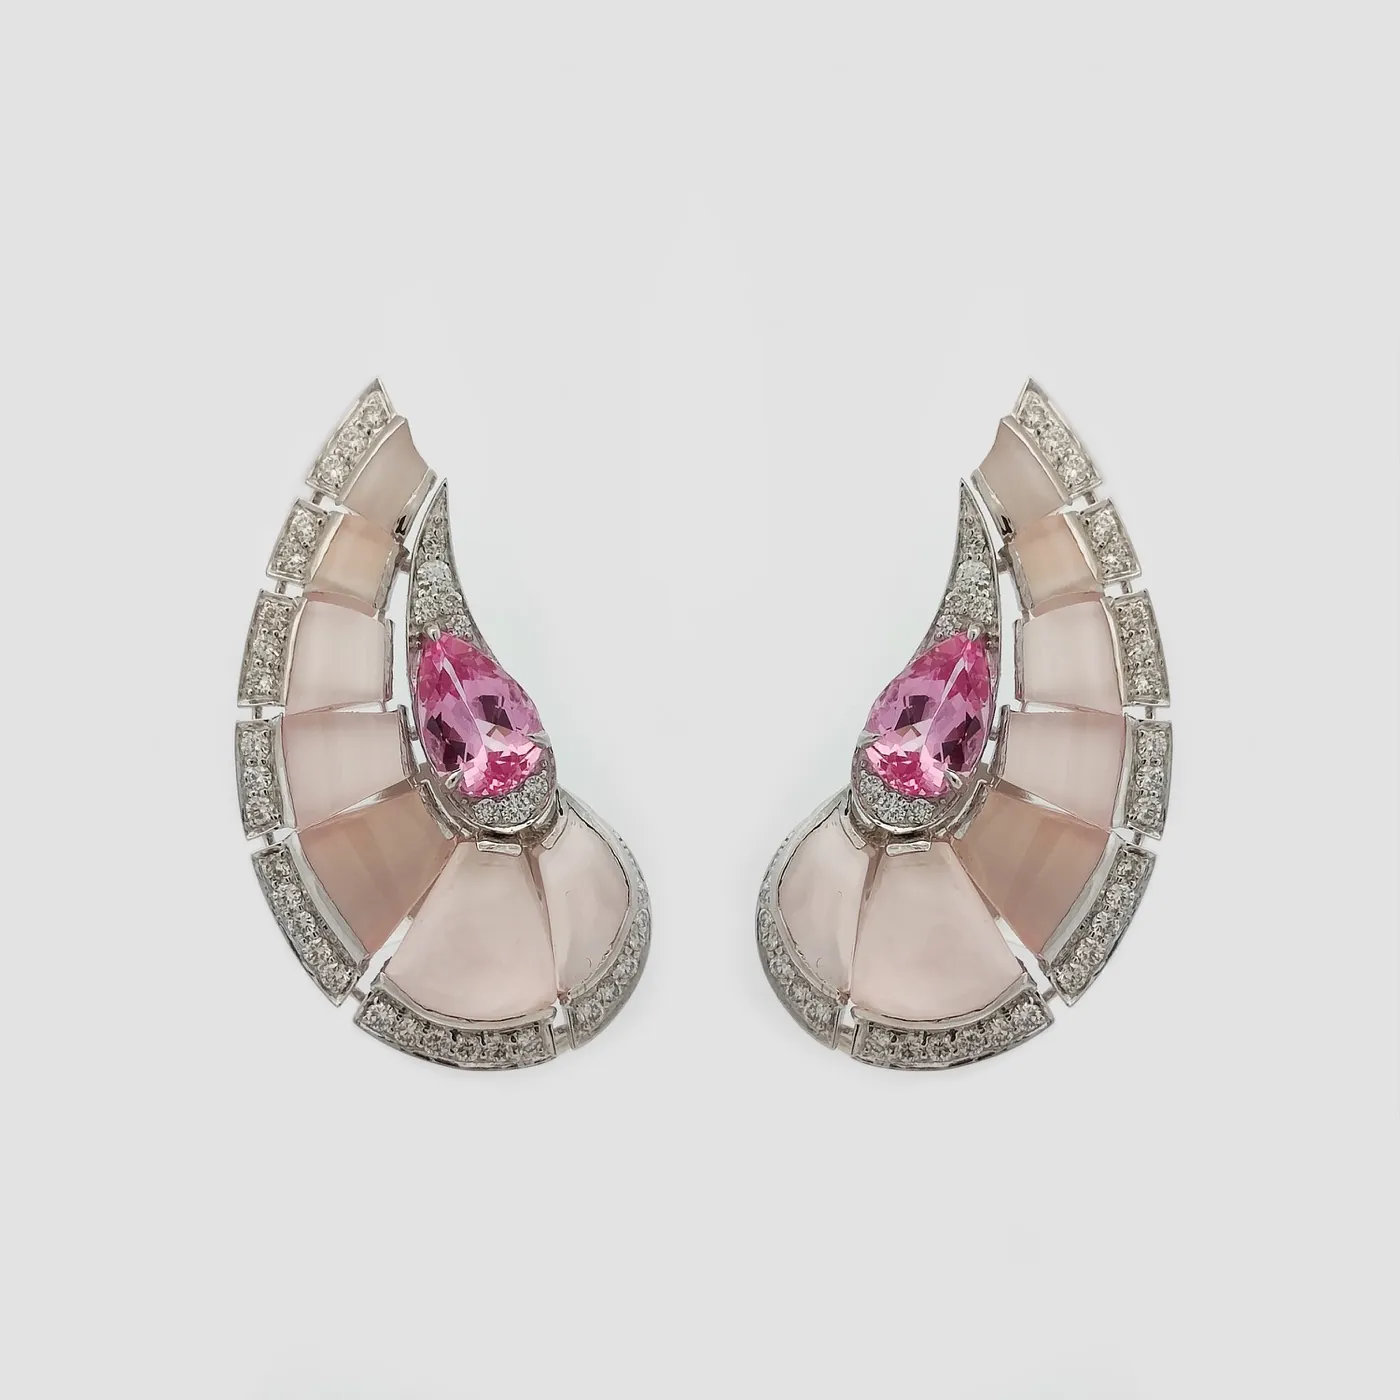
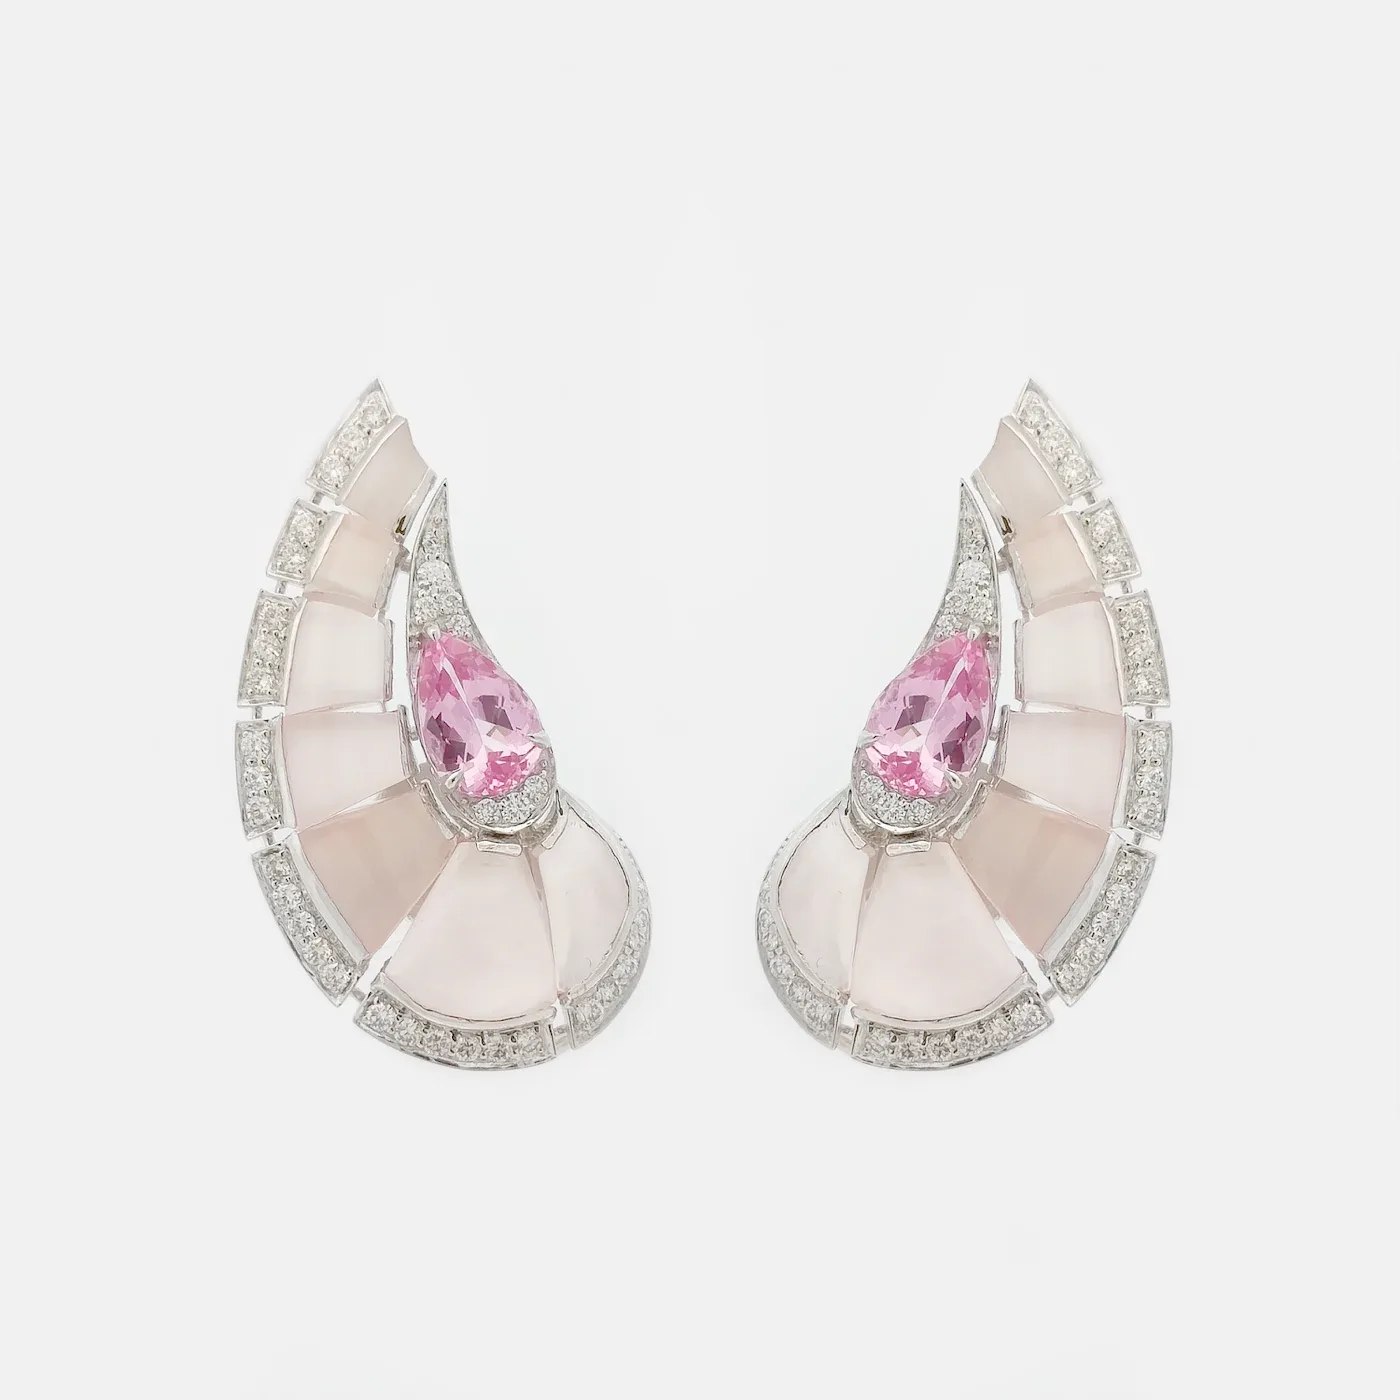
style: square Fine Jewellery tiles, two up, and one background across packshots
Product tiles were 4:5 and one per row on a phone, which did not match the
High Jewellery grid and cropped into packshots that are square originals. They
are now 1:1, two up from the narrowest width and four up on desktop, and the
product page's model frames are square too, so the ratio holds across the tile,
the hero and the editorial section.

Backgrounds were inconsistent because the source photography is. Measuring the
border pixels of all 111 packshots found 97 already agreeing near rgb(241) and
a spread from 188 to 254. Twelve genuinely darker or warmer ones are corrected
onto the common background with a per-channel gamma that pins black and white,
so the metal keeps its highlights instead of blowing out as a linear scale
would.

Two near-white shots are deliberately left alone. Correcting a background that
sits at 254 needs an exponent so close to zero that small channel differences
swing wildly, which wrecked the colour of a pink spinel ring when tried — and
at that distance from the target nobody reads it as inconsistent anyway. The
routine also now guards the divide-by-zero a channel at exactly 255 causes.

Six images came from PNG sources that were the same photographs as their JPEG
siblings, only with a black matte where the transparency had been, so each
appeared twice in its gallery with one copy black-edged. Those are removed.

Dew is dropped, with its five pieces and the nav entries. One of its images was
[…]

Changed region(s): [[0.5221, 0.2764, 0.86, 0.7679], [0.1536, 0.2764, 0.4914, 0.7679]]

diff --git a/frontend/fine-jewellery/data.js b/frontend/fine-jewellery/data.js
@@ -51,15 +51,6 @@ window.FJ_DATA = {
       "tone": "#7d6fa8",
       "banner": "img/swirl-banner.webp",
       "meta": "Soft rotations · layered curves"
-    },
-    {
-      "id": "dew",
-      "name": "Dew",
-      "lede": "A single droplet held in perfect suspension.",
-      "story": "The Dew collection draws inspiration from the purest moment in nature, when a single droplet forms, suspended in perfect balance. Each design is shaped around a softened and quiet elegance of falling drops in the morning dew.\n\nWith precise proportions and finish each gemstone is cut into the soft drop shape enhancing its luminosity, and unique structure. Dew with its freshness, signifies renewal and the beginning of a moment.",
-      "tone": "#8fc9c0",
-      "banner": "img/dew-banner.webp",
-      "meta": "Drop-cut gemstones · quiet elegance"
     }
   ],
   "types": [
@@ -1302,9 +1293,7 @@ window.FJ_DATA = {
       "tone": "#c45a7a",
       "images": [
         "img/products/gd25-816.webp",
-        "img/products/gd25-816-1.webp",
-        "img/products/gd25-816-2.webp",
-        "img/products/gd25-816-3.webp"
+        "img/products/gd25-816-2.webp"
       ]
     },
     {
@@ -1490,9 +1479,7 @@ window.FJ_DATA = {
       "tone": "#c45a7a",
       "images": [
         "img/products/gd26-60.webp",
-        "img/products/gd26-60-1.webp",
-        "img/products/gd26-60-2.webp",
-        "img/products/gd26-60-3.webp"
+        "img/products/gd26-60-2.webp"
       ]
     },
     {
@@ -1535,9 +1522,7 @@ window.FJ_DATA = {
       "tone": "#d4783a",
       "images": [
         "img/products/gd26-166.webp",
-        "img/products/gd26-166-1.webp",
-        "img/products/gd26-166-2.webp",
-        "img/products/gd26-166-3.webp"
+        "img/products/gd26-166-2.webp"
       ]
     },
     {
@@ -2001,100 +1986,6 @@ window.FJ_DATA = {
       "grossG": 2.94,
       "story": "Crafted in 18k Rose Gold, set with 3.66 carats of cabochon pear-cut rubellite paired with 0.27 carats of brilliant cut diamonds.",
       "tone": "#b8325a"
-    },
-    {
-      "id": "gd26-61",
-      "sku": "GD26-61",
-      "name": "Pink spinel and diamond dew pendant",
-      "collection": "Dew",
-      "type": "Pendants",
-      "metal": "14k White Gold",
-      "metalCode": "G-14kt-W",
-      "stone": "Pink Spinel",
-      "shape": "Drops",
-      "stonePcs": 18,
-      "stoneCt": 5.41,
-      "diamondCt": 1.9,
-      "netG": 9.108,
-      "grossG": 10.57,
-      "story": "Crafted in 14k White Gold, set with 5.41 carats of drop-cut pink spinel paired with 1.9 carats of brilliant cut diamonds.",
-      "tone": "#c45a7a",
-      "images": [
-        "img/products/gd26-61.webp",
-        "img/products/gd26-61-1.webp"
-      ]
-    },
-    {
-      "id": "gd26-81",
-      "sku": "GD26-81",
-      "name": "Pink spinel and diamond dew ring",
-      "collection": "Dew",
-      "type": "Rings",
-      "metal": "14k White Gold",
-      "metalCode": "G-14kt-W",
-      "stone": "Pink Spinel",
-      "shape": "Mix",
-      "stonePcs": 11,
-      "stoneCt": 4.45,
-      "diamondCt": 0.42,
-      "netG": 3.676,
-      "grossG": 4.65,
-      "story": "Crafted in 14k White Gold, set with 4.45 carats of mixed ball, pear and drop-cut pink spinel paired with 0.42 carats of brilliant cut diamonds.",
-      "tone": "#c45a7a"
-    },
-    {
-      "id": "gd26-80",
-      "sku": "GD26-80",
-      "name": "Pink spinel and diamond dew bracelet",
-      "collection": "Dew",
-      "type": "Bracelets",
-      "metal": "14k White Gold",
-      "metalCode": "G-14kt-W",
-      "stone": "Pink Spinel",
-      "shape": "Mix",
-      "stonePcs": 22,
-      "stoneCt": 9.5,
-      "diamondCt": 2.24,
-      "netG": 15.212,
-      "grossG": 17.56,
-      "story": "Crafted in 14k White Gold, set with 9.5 carats of mixed ball, pear and drop-cut pink spinel paired with 2.24 carats of brilliant cut diamonds.",
-      "tone": "#c45a7a"
-    },
-    {
-      "id": "g-625",
-      "sku": "G 625",
-      "name": "Mint garnet, pink spinel and diamond dew ring",
-      "collection": "Dew",
-      "type": "Rings",
-      "metal": "14k White Gold",
-      "metalCode": "G-14kt-W",
-      "stone": "Mint Garnet & Pink Spinel",
-      "shape": "Mix",
-      "stonePcs": 14,
-      "stoneCt": 5.77,
-      "diamondCt": 0.46,
-      "netG": 7.767,
-      "grossG": 9.013,
-      "story": "Crafted in 14k White Gold, set with 3.99 carats of pear-cut mint garnet alongside 1.78 carats of oval cut pink spinel, paired with 0.46 carats of brilliant cut diamonds.",
-      "tone": "#6a9e7a"
-    },
-    {
-      "id": "gd23-146",
-      "sku": "GD23-146",
-      "name": "Mint garnet, pink spinel and diamond dew ring",
-      "collection": "Dew",
-      "type": "Rings",
-      "metal": "14k White Gold",
-      "metalCode": "G-14kt-W",
-      "stone": "Mint Garnet & Pink Spinel",
-      "shape": "Marquise & Round",
-      "stonePcs": 15,
-      "stoneCt": 4.05,
-      "diamondCt": 1.221,
-      "netG": 8.93,
-      "grossG": 9.984,
-      "story": "Crafted in 14k White Gold, set with 3.5 carats of marquise cut mint garnet alongside 0.55 carats of round cut pink spinel, paired with 1.221 carats of round and baguette cut diamonds.",
-      "tone": "#6a9e7a"
     }
   ]
 };

diff --git a/frontend/fine-jewellery/styles.css b/frontend/fine-jewellery/styles.css
@@ -619,19 +619,22 @@ button {
 
 /* ----------------------------------------------------------------- grids */
 
+/* Two up from the narrowest width, matching the High Jewellery grid so the two
+   sections read as one shop rather than two. */
 .fj-grid {
   display: grid;
-  grid-template-columns: 1fr;
+  grid-template-columns: repeat(2, minmax(0, 1fr));
   gap: 28px 18px;
 }
-@media (min-width: 620px) { .fj-grid { grid-template-columns: repeat(2, minmax(0, 1fr)); } }
-@media (min-width: 1100px) { .fj-grid { grid-template-columns: repeat(3, minmax(0, 1fr)); } }
+@media (min-width: 1100px) { .fj-grid { grid-template-columns: repeat(4, minmax(0, 1fr)); } }
 
 .fj-card { display: flex; flex-direction: column; gap: 14px; }
 .fj-card:hover .fj-plate { transform: scale(1.015); }
 
+/* Square, like High Jewellery's tiles — the packshots are square originals, so
+   a 4:5 frame was cropping into them. */
 .fj-plate {
-  aspect-ratio: 4 / 5;
+  aspect-ratio: 1;
   display: grid; place-items: center;
   background: var(--ground);
   transition: transform 0.55s cubic-bezier(0.2, 0, 0.1, 1);
@@ -848,7 +851,7 @@ button {
   display: grid; grid-template-columns: repeat(3, minmax(0, 1fr)); gap: 14px;
 }
 @media (max-width: 620px) { .fj-closer-grid { grid-template-columns: 1fr 1fr; } }
-.fj-closer-tile { aspect-ratio: 4 / 5; }
+.fj-closer-tile { aspect-ratio: 1; }
 
 /* you may also like */
 .fj-related {
@@ -883,7 +886,9 @@ button {
   .fj-model-block--right .fj-model-frame { order: 2; }
   .fj-model-block--right .fj-model-text { order: 1; }
 }
-.fj-model-frame { aspect-ratio: 4 / 5; }
+/* Square to match the product tiles and the PDP hero — one ratio across the
+   whole section. */
+.fj-model-frame { aspect-ratio: 1; }
 .fj-model-text h3 {
   margin: 0 0 12px;
   font-family: var(--serif); font-weight: 500; font-size: clamp(22px, 2.4vw, 28px);

diff --git a/frontend/fine-jewellery/index.html b/frontend/fine-jewellery/index.html
@@ -4,7 +4,7 @@
 <meta charset="utf-8">
 <meta name="viewport" content="width=device-width, initial-scale=1">
 <title>Fine Jewellery | Gem Experience</title>
-<meta name="description" content="Bloom, Safar, Tide, Swirl and Dew Fine Jewellery collections from Gem Experience.">
+<meta name="description" content="Bloom, Safar, Tide and Swirl Fine Jewellery collections from Gem Experience.">
 <link rel="preconnect" href="https://fonts.googleapis.com">
 <link rel="preconnect" href="https://fonts.gstatic.com" crossorigin>
 <link rel="stylesheet" href="https://fonts.googleapis.com/css2?family=Cormorant+Garamond:ital,wght@0,300;0,400;0,500;0,600;1,300;1,400&family=Jost:wght@300;400;500;700&display=swap">
@@ -49,7 +49,6 @@
           <a href="#/safar">Safar</a>
           <a href="#/tide">Tide</a>
           <a href="#/swirl">Swirl</a>
-          <a href="#/dew">Dew</a>
         </div>
       </div>
       <div class="fj-nav-links">

diff --git a/frontend/index.html b/frontend/index.html
@@ -168,7 +168,6 @@
           <a href="fine-jewellery/#/safar">Safar</a>
           <a href="fine-jewellery/#/tide">Tide</a>
           <a href="fine-jewellery/#/swirl">Swirl</a>
-          <a href="fine-jewellery/#/dew">Dew</a>
         </div>
       </div>
       <a href="offices/">Find our store</a>
